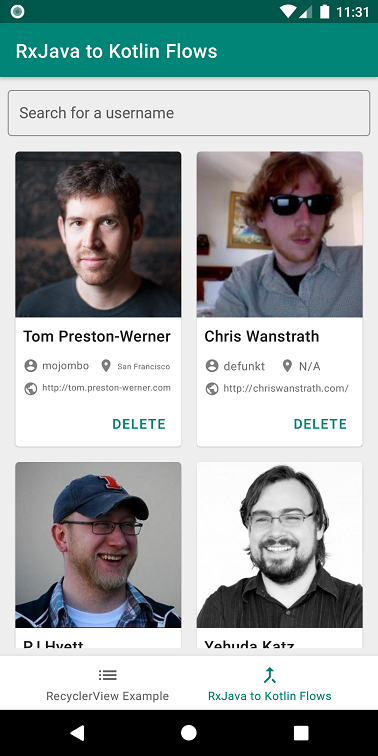
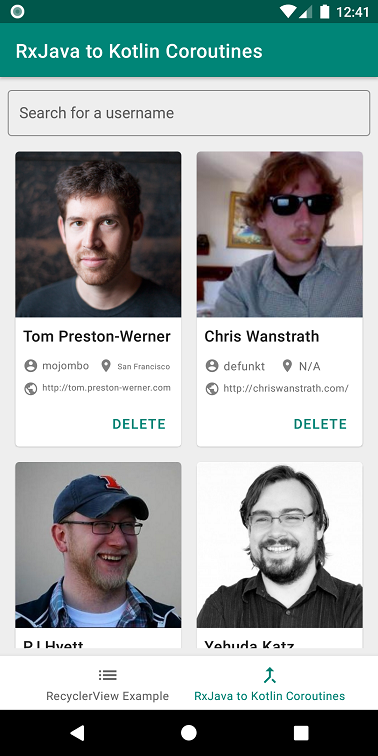
Finished part 1 of article series 'Going with the Flow: from RxJava to Kotlin Coroutines'

Changed region(s): [[0.5238, 0.9127, 0.9021, 0.9431], [0.4365, 0.0608, 0.6984, 0.0913], [0.9021, 0.0, 0.9603, 0.0304]]

diff --git a/_posts/2019-08-15-going-with-the-flow-rxjava-to-coroutines-part-1.md b/_posts/2019-08-15-going-with-the-flow-rxjava-to-coroutines-part-1.md
@@ -9,9 +9,9 @@ cover_source: Unsplash
 cover_source_url: https://unsplash.com
 navigation: True
 comments: True
-title: "Going with the Flow: RxJava to coroutines - Part 1"
+title: "Going with the Flow: from RxJava to Kotlin coroutines - Part 1"
 subtitle: "Refactoring an API request"
-date: 2019-08-15 10:00:00
+date: 2019-08-19 00:00:00
 tags: [Android]
 class: post-template
 subclass: "post tag-android"
@@ -21,7 +21,13 @@ published: True
 
 I've been playing around with Kotlin's coroutines library. I had some trouble wrapping my head around the whole coroutine concept, mainly because I was consistently looking out for RxJava resemblances. Well, the truth is RxJava is one thing, and coroutines are another thing. Sure, they can be used for the same use cases, but they're two different concepts. I'll try not to go too deep into the rabit hole here, but RxJava is an API for asynchronous and/or concurrent programming that follows the **functional** and **reactive** paradigms. On the other hand, the coroutines library aims to facilitate asynchronous and/or concurrent programming, while **deferring the decision of going functional or reactive to the user**. Once I became aware of this, coroutines became a lot easier to understand. And it took me a lot less time than RxJava. I dare say that this might mean they're easier to grasp for beginners, or at least to someone that's not familiarized with RxJava.
 
-In this article series, I'll go through a sample app built with RxJava and refactor it using the coroutines library. I will show you both implementations and explain the reasoning behind them. I will measure performance (I'm an Engineer™) and show you how can you write tests for both versions. In this article, I'll start with the refactoring that, in my opinion, lays the foundation to understand the upcoming ones - refactoring of an API request with coroutines (if you came for Flows, I will talk about them in this series, but not in this article. Sorry!). So, let's get started.
+In this article series, I'll go through a sample app built with RxJava and refactor it using the coroutines library. The plan for the series is to:
+
+- Refactor API requests with coroutines;
+- Refactor a Database event subscription with Flow;
+- Refactor a UI interaction with Flow and Channels;
+
+I will show you both implementations and explain the reasoning behind them, albeit assuming that you're at least familiar with RxJava. I will measure performance (I'm an Engineer™) and show you how can you write tests for both versions. In this article, I'll start with the refactoring that, in my opinion, lays the foundation to understand the upcoming ones - refactoring API requests with coroutines. So, let's get started.
 
 ### The app
 
@@ -57,19 +63,19 @@ Yes, I could use `Observable` instead of `Maybe` here, but `Maybe` makes more _s
 ```Kotlin
 override fun getUsersFromApi(): Observable<User> {
   return api.getAllUsers() // returns Maybe for semantic purposes - one possible response on each request.
-    .flattenAsObservable { it } // However, transformations are easier with Observables :)
+    .flattenAsObservable { it } // However, we need to transform each element of the list
     .map { userMapper.mapToEntity(it) }
 }
 
 override fun getUserDetailsFromApi(username: Username): Maybe<DetailedUser> {
-  return api.getUserDetails(username.value)
+  return api.getUserDetails(username.value) // Username is an inline class. Handy for domain modeling!
     .map { detailedUserMapper.mapToEntity(it) }
 }
 ```
 
-Following Clean Architecture, I have `UseCase` classes connecting the `ViewModel` to the repository. Regardless, I'm skipping them here since I'm only using them to define the boundary, i.e., they just forward the calls from the `ViewModel` to the repository. This is actually something that bothers me, because according to the Clean Architecture definition, a use case is called a "use case" because it encapsulates use case logic. On Android though, we tend to keep the this logic both in the repository and the `ViewModel` (at least in most Clean Architecture implementations I've seen so far). In other words, the `UseCase` classes are practically useless, doing nothing more than defining a boundary. Maybe they don't make any sense at all, since most of the work done by an Android app is fetching data from wherever and showing it on the screen. Anyway, this is a subject for another article, maybe. Back to the refactoring.
+Following Clean Architecture, I have `UseCase` classes connecting the `ViewModel` to the repository. Regardless, I'm skipping them here since I'm only using them to forward the calls from the `ViewModel` to the repository. This is actually something that bothers me, because according to the Clean Architecture definition, a use case is called a "use case" because it encapsulates use case logic. On Android though, we tend to keep the this logic both in the repository and the `ViewModel` (at least in most Clean Architecture implementations I've seen so far). In other words, the `UseCase` classes are used only to improve code readability - as their intent is, by nature, straightforward - and define boundaries. Since most of the work done by an Android app is fetching data from wherever and showing it on the screen, one might wonder if the extra classes, extra maintenance effort, extra performance cost and extra APK size increase are really worth it. Anyway, this is a subject for another article, maybe. Back to the refactoring.
 
-So, the API is ready, and the repository is ready. Now we just need to make the call in the `ViewModel`, and subscribe to it:
+The API is ready, and the repository is ready. Now we just need to make the call in the `ViewModel`, and subscribe to it:
 
 ```Kotlin
 // Gets users from the api and stores them in the database
@@ -78,17 +84,17 @@ private fun updateCache() {
     .doOnSuccess { Logger.d("Updating database") }
     .subscribeOn(Schedulers.io())
     .subscribe(
-      { updateCachedUsers(it) },
-      { handleErrors(it) }
+      { updateCachedUsers(it) }, //onSuccess
+      { handleErrors(it) } // onError
     )
     .addTo(compositeDisposable) // Extension function
 }
 
 private fun getUsersFromApiAsSingle(): Single<List<DetailedUser>> {
-  return getUsersFromApi(NoParameters())
+  return getUsersFromApi(NoParameters()) // NoParameters is a UseCase implementation detail
     .take(10) // Github API has a hourly call limit :D and 10 are more than enough for what we're doing
     .flatMapMaybe { getUserDetailsFromApi(it.username) } // 2nd api call with information from the 1st one
-    .toList() // gather all stream events back into one list -> List<DetailedUser>
+    .toList() // gather all stream events back into one Single list
 }
 ```
 
@@ -98,44 +104,56 @@ I'm going to pretend I don't have all these layers and boundaries for a second, 
 api.getAllUsers() // returns Maybe for semantic purposes - one possible response on each request.
   .flattenAsObservable { it } // However, we need to transform each element of the list
   .map { userMapper.mapToEntity(it) }
-  .take(10) // Github API has a hourly call limit :D and 10 are more tha enough for what we're doing
+  .take(10) // Github API has a hourly call limit :D and 10 are more than enough for what we're doing
   .flatMapMaybe { // 2nd api call with information from the 1st one
       api.getUserDetails(username.value)
           .map { detailedUserMapper.mapToEntity(it) }
   }
-  .toList() // gather all stream events back into one list -> List<DetailedUser>
+  .toList() // gather all stream events back into one Single list -> Single<List<DetailedUser>>
   .doOnSuccess { Logger.d("Updating database") }
   .subscribeOn(Schedulers.io())
   .subscribe(
-      { updateCachedUsers(it) },
-      { handleErrors(it) }
+    { updateCachedUsers(it) }, //onSuccess
+    { handleErrors(it) } // onError
   )
   .addTo(compositeDisposable) // Extension function
 ```
 
 Ok, so what's happening here?
 
-- We get the list of users from the API through a `Maybe<List<GithubUser>>` stream;
+- We send a request to the API and get back a `Maybe<List<GithubUser>>` stream;
 - We flatten the list into an `Observable<GithubUser>` stream;
 - We map each element to a domain entity called `User` (even though I'm pretending there are no boundaries, I left this mapping on purpose since it's part of the stream's operations);
-- We take the first 10 elements just because we'll have to do another API call for each user, and Github has a very low limit for unauthenticated requests;
-- We use `flatMapMaybe` to get the user details for each of the 10 users, and map each one of the returned objects (`GithubDetailedUser`) to a domain entity called `DetailedUser`. Why `flatMapMaybe` instead of a regular `flatMap`? Because the `getUserDetails` API call returns a `Maybe<GithubDetailedUser>`, and a simple `flatMap` requires that you provide it with the same kind of stream you apply it on, since it has to return the same type (in this case, an Observable stream). As such, `flatMapMaybe` is expecting a Maybe stream as its parameter, and returns an `Observable` stream at the end;
+- We take the first ten elements just because we'll have to do another API call for each user, and Github has a very low limit for unauthenticated requests;
+- We use `flatMapMaybe` to get the user details for each of the ten users, and map each one of the returned objects (`GithubDetailedUser`) to a domain entity called `DetailedUser`. Why `flatMapMaybe` instead of a regular `flatMap`? Because the `getUserDetails` API call returns a `Maybe<GithubDetailedUser>`, and a simple `flatMap` requires that you provide it with the same kind of stream you apply it on, since it has to return the same type (in this case, an `Observable` stream). As such, `flatMapMaybe` is expecting a Maybe stream as its parameter, and returns an `Observable` stream at the end;
 - After `flatMapMaybe` does its magic and flattens the incoming streams into one `Observable<DetailedUser>` stream, we call the `toList` operator, which in turn will output a `Single<List<DetailedUser>>` stream;
-- Finally, we do some logging, bind the upstream to a thread from the IO pool, the downstream to the main thread and subscribe to the whole thing. Since the last operation outputs a `Single` stream, the observer only has two functions: an onSuccess lambda that calls the `updateCachedUsers` method, and an `onError` lambda that calls the `handleErrors` method. `updateCachedUsers` then proceeds to update the database with the information it gets as parameter, i.e. a `List<DetailedUser>`.
+- Finally, we do some logging, bind all operations to a thread from the IO pool and subscribe to the whole thing. Since the last operation outputs a `Single` stream, the observer only has two functions: an `onSuccess` lambda that calls the `updateCachedUsers` method, and an `onError` lambda that calls the `handleErrors` method. If everything goes through the happy path, `updateCachedUsers` then proceeds to update the database with the information it gets as parameter, i.e. a `List<DetailedUser>`. The lack of an `observeOn` operator is not a bug: `updateCachedUsers` is supposed to run in the background, so we can keep the stream running in the same thread.
 
-Whew. That's a whole lot of stream operations. But it does exactly what we want: it fetched data from a remote API and updates the local database, all in an asynchronous - and concurrent, thanks to the flatMapMaybe - fashion. Let's see how can we do the same with coroutines.
+Whew. That's a whole lot of stream operations. But it does exactly what we want: it fetched data from a remote API and updates the local database, all in an asynchronous - and partially concurrent, thanks to the flatMapMaybe - fashion. Let's see how can we do the same with coroutines.
 
 ### Coroutines
 
-First, I want to talk a little about what is a coroutine and what does this library offer us. To make it easier to process, I'll talk about the basic coroutine theory now, and then talk about the practical concepts as they show up while refactoring. If you already understand how coroutines work under the hood, you can skip to the next section.
+First, I want to talk a little about how coroutines work in Kotlin. I'll only graze the surface on the topic, but it should be enough to get you started. To make it easier to process, I'll talk about the basic coroutine theory now, and then talk about the practical concepts as they show up while refactoring. If you already understand how coroutines work under the hood, you can skip to the next section.
 
-So, a coroutine is a construct meant to turn async programming into a walk in a park. They are usually referred to as _lightweigth threads_, since they are so much lighter to use than a regular thread. On Android at least, a typical thread occupies 1 to 2 MB of memory (that's why we love thread pools!). Each Java thread gets mapped to a kernel thread, which means that the OS manages them. The OS then schedules which thread runs at a given time, and jumps between them (context switching). In other words, all this scheduling, context switching, CPU cache invalidation, have their performance cost.
+So, a coroutine is a construct meant to turn async programming into a walk in a park. They are usually referred to as _lightweigth threads_, since they are so much lighter to use than a regular thread. On Android at least, a typical thread occupies 1 to 2 MB of memory (that's why we love thread pools!). Each Java thread gets mapped to a kernel thread, which means that the OS manages them. The OS then schedules which thread runs at a given time, jumps between them (context switching), has to invalidate cache in the process... All of these and other related operations have their performance cost.
 
-Coroutines are executed in threads. Not new threads, but threads that come from a thread pool managed by the coroutines themselves. Coroutines are not bound to any particular thread, which means that they can start in one thread, _suspend_, and resume in another thread. Since this process is fully managed by coroutines through `Continuation`s, we don't get the context switching overhead (more on this in a minute). They also aren't managed by the OS, which automatically frees us from the thread scheduler overhead I mentioned above. The coroutine object in itself has a small memory footprint (bytes), which means that you can have a bunch of them being executed at the same time without having to worry about running out of memory. There are a few examples online where people execute 100.000 coroutines without having any problems at all, and getting an OutOfMemoryException when they try to do the same with regular threads.
+Coroutines are executed in threads. These threads come from thread pools managed by coroutines themselves. Coroutines are not bound to any particular thread, which means that they can start in one thread, _suspend_, and resume in another thread. Since this process is fully managed by coroutines through `Continuation`s, we don't get the context switching overhead (more on this in a minute). They also aren't managed by the OS, which automatically frees us from the thread scheduler overhead mentioned above. The coroutine object in itself has a small memory footprint (bytes), which means that you can have a bunch of them being executed at the same time without having to worry about running out of memory. There are a few examples online where people launch 100.000 coroutines at the same time without having any problems at all, while getting an OutOfMemoryException when they try to do the same with regular threads.
 
-I mentioned `Continuation` before. This happens to be one of the most important aspects about coroutines, if not the most important. Kotlin coroutines implement what is called a **continuation passing style**. Whenever you write a **suspendable function** (you've probably seen `suspend fun` written somewhere by now), you're letting Kotlin know that this function is to be executed in a coroutine. Why? Because under the hood, the compiler translates the `suspend fun` to a function that receives a `Continuation` as a parameter! Coroutines then use these continuation variables to store state about them. Every time is suspends, it stores its state in the continuation. When it wants to resume its execution, it only has to check the continuation for the information it needs, and that's it. This seamless suspend-resume process is what allows us to write **sequential** code instead of callbacks for async work. Whenever there's an async work to be done, the coroutine suspends, and later resumes when the async work is done. Meanwhile, the world keeps spinning like nothing's going on, as this suspension **does not** block the thread the coroutine is running on.
+I mentioned `Continuation` before. This happens to be one of the most important aspects about coroutines, if not the most important. Kotlin coroutines implement what is called a **continuation passing style**. Whenever you write a **suspendable function** (you've probably seen `suspend fun` written somewhere by now), you're letting Kotlin know that this function is to be executed in a coroutine. Why? Because under the hood, the compiler translates the `suspend fun` to a function that receives a `Continuation` as a parameter! So, when you write something like this
 
-Ok, you're still reading. I know this is a lot, but hopefully it'll help you understand things when we get our hands on the code.
+```Kotlin
+suspend fun login(user: User): Token { ... }
+```
+
+It gets decompiled to something similar to
+
+```Java
+Object login(User user, Continuation<Token> continuation) { ... }
+```
+
+Every time a coroutine suspends, it stores its state in the continuation. When it wants to resume its execution, it only has to check the continuation for the information it needs, and that's it. This seamless suspend-resume process is what allows us to write seemingly **sequential** code instead of callbacks for async work. Whenever there's async work to be done, the coroutine suspends, and later resumes when the work is done. Meanwhile, the world keeps spinning like nothing's going on, as this suspension **does not** block the thread the coroutine is running on. In fact, while this coroutine is suspended, another coroutine can immediately start some work on the same thread.
+
+Ok, you're still reading. I know this is a lot, but hopefully it'll help you understand things when we get our hands on the code (it certainly did help me).
 
 ### Handling an API request with coroutines
 
@@ -178,12 +196,12 @@ private fun updateCacheWithCoroutines() {
   viewModelScope.launch(exceptionHandler) {
     // But the request should go to the backgound
     withContext(Dispatchers.IO) {
-      getUsersFromApiAsCoroutine(this)
+      getUsersFromApiThroughCoroutine(this)
     } // Don't forget: at this point, we're in the main thread context again!
   }
 }
 
-private suspend fun getUsersFromApiAsCoroutine(coroutineScope: CoroutineScope) {
+private suspend fun getUsersFromApiThroughCoroutine(coroutineScope: CoroutineScope) {
   val userList = getUsersFromApi(NoParameters()) // List<User>
     .take(10) // Github API has a hourly call limit :D and 10 are more than enough for what we're doing
     .map { coroutineScope.async { getUserDetailsFromApi(it.username) } } // Yay concurrency!
@@ -198,11 +216,11 @@ private suspend fun getUsersFromApiAsCoroutine(coroutineScope: CoroutineScope) {
 
 Before I start explaining what's happening here, there are a few keypoints that you need to be aware of (if you know how coroutines are launched and what contexts and jobs are, you can skip to the next code snippet):
 
-- Coroutines are launched through a `CoroutineBuilder`. The typical ones are `launch` and `async` (theres also `runBlocking`, which we'll use for testing). The `async` builder is used for concurrent tasks. You execute concurrent coroutines with it and wait for them with the `await` suspending function, which suspends the parent coroutine until the async ones finish;
-- `Dispatchers` are used to confine coroutine execution to specific threads. They are used together with the `withContext` suspendable function;
-- Just like Android, coroutines have a **context**. It's a persistent set of data pertaining the coroutine, and it's contained within the continuation. Coroutine builders let you define the context with which the coroutine should run. The same goes with the `withContext` function (`Dispatchers` are actually `CoroutineContext`s). This means that you can use `Dispatchers` with any `CoroutineBuilder` as well, which makes the task of thread switching a lot more versatile;
-- Every coroutine is bound to a `CoroutineScope`. These scopes let you bind the coroutine to specific lifecycles. Coroutine builders are actually extension functions defined in `CoroutineScope` types. On Android, we probably want to avoid `GlobalScope`, which is meant for coroutines that run throughout the app's lifetime. In the code, I use a `ViewModelScope` to bind the coroutines to the `ViewModel`;
-- Coroutines can be cancelled. We can cancel them either by throwing a `CancellationException` or through a `Job`. `Job`s can form parent-child hierarchies, where cancellation of the parent also cancels all children, or failure/cancellation of a child also cancels the parent (except if the child throws a `CancellationException`). There's also the `SupervisorJob`, where a child can fail without affecting other children or the parent. A coroutine's `Job` can be obtained either by storing the return value of the `launch` builder, or by accessing it directly inside the coroutine.
+- Coroutines are launched through a `CoroutineBuilder`. The typical ones are `launch` and `async` (theres also `runBlocking`, which we'll use for testing). As you can see above, you can launch coroutines inside coroutines: we're launching coroutines with `async`, while in another coroutine that was launched by `launch`. The `async` builder is used for concurrent tasks. You execute concurrent coroutines with it and wait for them with the `await` suspending function, which suspends the parent coroutine until the async children finish;
+- `Dispatchers` are used to confine coroutine execution to specific threads. They are used either with a `CoroutineBuilder` or with the `withContext` suspendable function;
+- Every coroutine is bound to a `CoroutineScope`. These scopes let you bind the coroutine to specific lifecycles. `CoroutineBuilder`s are actually extension functions defined in `CoroutineScope` types (except for `runBlocking`). On Android, we probably want to avoid `GlobalScope`, which is meant for coroutines that run throughout the app's lifetime. In the code, I use a `ViewModelScope` to bind the coroutines to the `ViewModel`'s lifecycle;
+- Coroutines can be cancelled. We can cancel them either by throwing a `CancellationException` or through a `Job`. Every coroutine is associated with a `Job`. Canceling a `Job` will cancel its coroutine. `Job`s can form parent-child hierarchies, where cancellation of the parent also cancels all children, and failure/cancellation of a child also cancels the parent (except if the child throws a `CancellationException`). There's also the `SupervisorJob`, where a child can fail without affecting other children or the parent. The typical way to obtain a coroutine's `Job` is either by storing the return value of the `launch` builder, or by accessing it directly inside the coroutine;
+- Just like Android, coroutines have a **context**. It's main elements are the coroutine's `Job` and `Dispatcher`. When the coroutine is launched, we have the choice of passing a `CoroutineContext` to the builder. If we don't, it'll use a default one. We can also change the coroutine's context later through the `withContext` function. A bunch of different classes implement the `CoroutineContext` interface, which is really handy (for instance, `Dispatchers` implement it, so we can pass them to a `CoroutineBuilder` or `withContext`).
 
 Back to the code. Like I did with the RxJava version, I'm going to pretend that there are no layers and join the whole thing:
 
@@ -235,14 +253,22 @@ viewModelScope.launch(exceptionHandler) {
 }
 ```
 
-At a first sight, there's a lot to explain here. Lets begin:
+Lets begin:
 
-- We start by creating a `CoroutineExceptionHandler`. Coroutines bubble up exceptions all the way to the top-most coroutine, so instead of having `try-catch` blocks all over the place, we pass an exception handler **to the top-most coroutine**. This handler will handle all exceptions (note that child coroutines can still have their own exception handling mechanisms);
-- We `launch` a coroutine on the `viewModelScope` and pass it the exception handler. By launching the coroutine on this scope, we're also binding it to the **main thread**. On a side note, we need to clear all the `viewModelScope`'s `Job`s at the end of the `ViewModel`'s lifecycle, just like we do with Rx's `CompositeDisposable`;
-- As soon as we start the coroutine, we change its context so that it'll run on the IO thread pool. Now, this is **very** important: the code inside `withContext`'s lambda will run on an IO thread. As **soon** as the lambda ends, we're back to the main thread! Unlike RxJava where we're used to bind the upstream to a thread and the downstream to another thread, coroutines rely on the actual **blocks** of code. In other words, everything inside the `launch {}` block will run on the main thread, but since we explicitly specify that an inner block should run on an IO thread with `withContext`, so it will be;
-- We get the users from the API, map them to domain entities and take the first 10;
-- Now for the other interesting bit. For each `User`, we're launching a new coroutine with `async` in order to fetch the details from the APi. We then map each reponse item to a domain entity;
-- Right below, we have a `map` that is receiving a `Deferred<DetailedUser>`. This is the return type of each of the `async` calls. We can then `await` on these `Deferred` values until they all finish. In the end, both this `map` and the one with the `async` calls mimic what an Rx's `flatMap` would do;
-- That's it. The rest is just sequential, normal code. However, a side note on this. `updateCachedUsers` is a call that gets propagated through the repository until it calls Room to actually update itself with the new data. Now, the caveat: if the actual Room function was a `suspend` function, this `updateCachedUsers` call above would have to be out the `withContext` block, and be executed in the main thread. As it turns out, Room `suspend` functions are **main-safe**, as it uses its own custom `Dispatcher` - calling it from any other thread other that main will only slow things down.
+- We start by creating a `CoroutineExceptionHandler`. Coroutines bubble up exceptions all the way to the top-most coroutine, so instead of having `try-catch` blocks all over the place, we pass an exception handler **to the top-most coroutine**. This handler works for simple cases, as it will handle all exceptions (note that child coroutines can still have their own exception handling mechanisms);
+- We `launch` a coroutine on the `viewModelScope` and pass it the exception handler (`CoroutineExceptionHandler` also implements `CoroutineContext`). By launching the coroutine on this scope, we're also binding it to the **main thread**. On a side note, we need to clear all the `viewModelScope`'s `Job`s at the end of the `ViewModel`'s lifecycle, just like we do with Rx's `CompositeDisposable`;
+- As soon as we start the coroutine, we change its context so that it'll run on the IO thread pool. Now, this is **very** important: the code inside `withContext`'s lambda will run on an IO thread. As **soon** as the lambda ends in line 25, we're back to the main thread! Unlike RxJava where we're used to bind the upstream to a thread and the downstream to another thread, coroutines rely on the actual **blocks** of code. In other words, everything inside the `launch {}` block will run on the main thread, but since we explicitly specify that an inner block should run on an IO thread with `withContext`, so it will be;
+- We get the users from the API, map them to domain entities and take the first ten;
+- Now for the other interesting bit. For each `User`, we're launching a new coroutine with `async` in order to fetch the details from the API. We then map each response item to a domain entity. Due to the `async` calls, this `map` will return `List<Deferred<DetailedUser>>`, as each `async` returns a `Deferred<T>` type. All `async` calls effectively run in a concurrent manner;
+- Right below, we have another `map` being called. We're calling it so that we can call `await` on each of the `Deferred` values, in order for the coroutine to suspend until they all finish. In the end, by using this `map` together with the one with the `async` calls, we're mimicking what an Rx's `flatMap` would do;
+- That's it. The rest is just sequential, normal code. However, a side note on this. `updateCachedUsers` is a call that gets propagated through the repository until it triggers Room to actually update itself with the new data. Now, the caveat: if the actual Room function was a `suspend` function, this `updateCachedUsers` call above would have to be out the `withContext` block, and be executed in the main thread. As it turns out, Room `suspend` functions are **main-safe**, as Room uses its own custom `Dispatcher` - calling it from any other thread other that main will only slow things down.
 
-### My thoughts
+### Final words
+
+This concludes the part 1 of this series. I wanted to include both testing and performance measurements for this refactoring in this article as well, but damn, this is already huge as it is. That said, in part 2 I'll be writing about how can you unit test both implementations (although I don't agree that you should, but I'll explain why in the article) and compare them both in terms of performance. I'm expecting them to be really close to each other in execution time, but I'm rather curious with the memory footprint of each implementation. If I had to bet, I'd say that RxJava is heavier on memory usage, but we'll see.
+
+As for RxJava vs. coroutines... Well, as I said in the begining, you really can't compare two different things. The only thing I can say right now is that both are really fun to use, and if your RxJava use case is one where you only use it for network calls **and you're looking for an alternative**, you should totally consider coroutines.
+
+<hr>
+
+Thank you so much for taking your time to read this. Do you have any thoughts or opinions? If so, please leave a comment or reach out on Twitter. See you in part 2!
